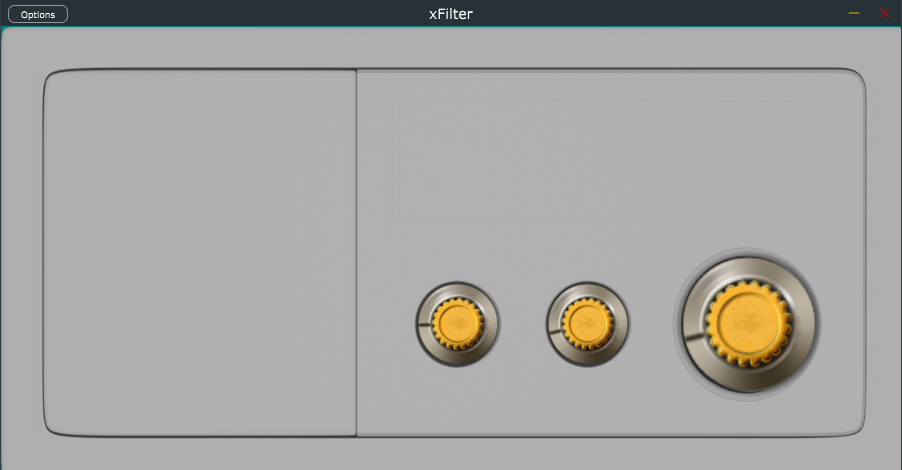
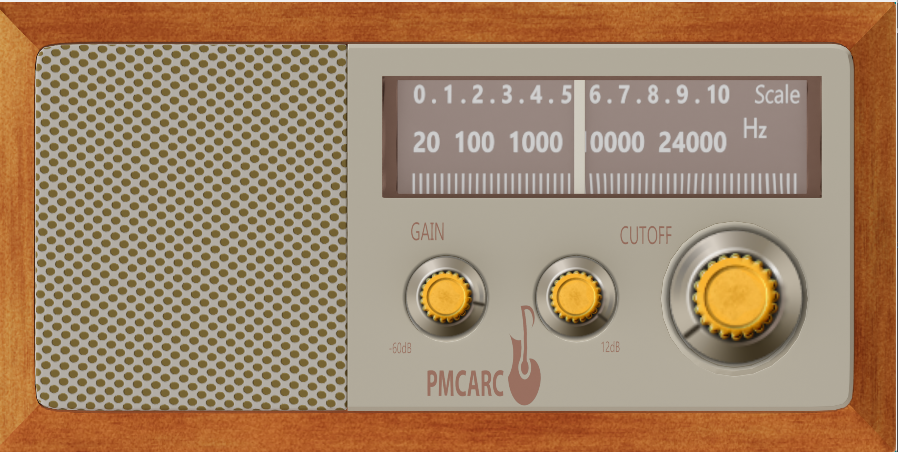
UI update under progress

diff --git a/Source/PluginEditor.cpp b/Source/PluginEditor.cpp
@@ -43,7 +43,7 @@ void XFilterAudioProcessorEditor::paint (juce::Graphics& g)
     // (Our component is opaque, so we must completely fill the background with a solid colour)
     g.fillAll (juce::Colours::teal);
 
-    g.drawImage(radioBase, 0, 0, getWidth(), getHeight(), 0, 0, 1170,557 );
+    g.drawImage(radioBase, 0, 0, getWidth(), getHeight(), 0, 0, radioBase.getWidth(), radioBase.getHeight());
 
 }
 
@@ -53,10 +53,10 @@ void XFilterAudioProcessorEditor::resized()
     // subcomponents in your editor..
 
     int knobSize = 120;
-    int y_init = 238;
+    int y_init = 235;
 
-    gainSlider.setBounds(397, y_init, knobSize, knobSize);
-    bandwidthSlider.setBounds(527, y_init, knobSize, knobSize);
-    cutoffSlider.setBounds(648, 198, 200, 200);
+    gainSlider.setBounds(390, y_init, knobSize, knobSize);
+    bandwidthSlider.setBounds(520, y_init, knobSize, knobSize);
+    cutoffSlider.setBounds(640, 195, 200, 200);
 
 }
